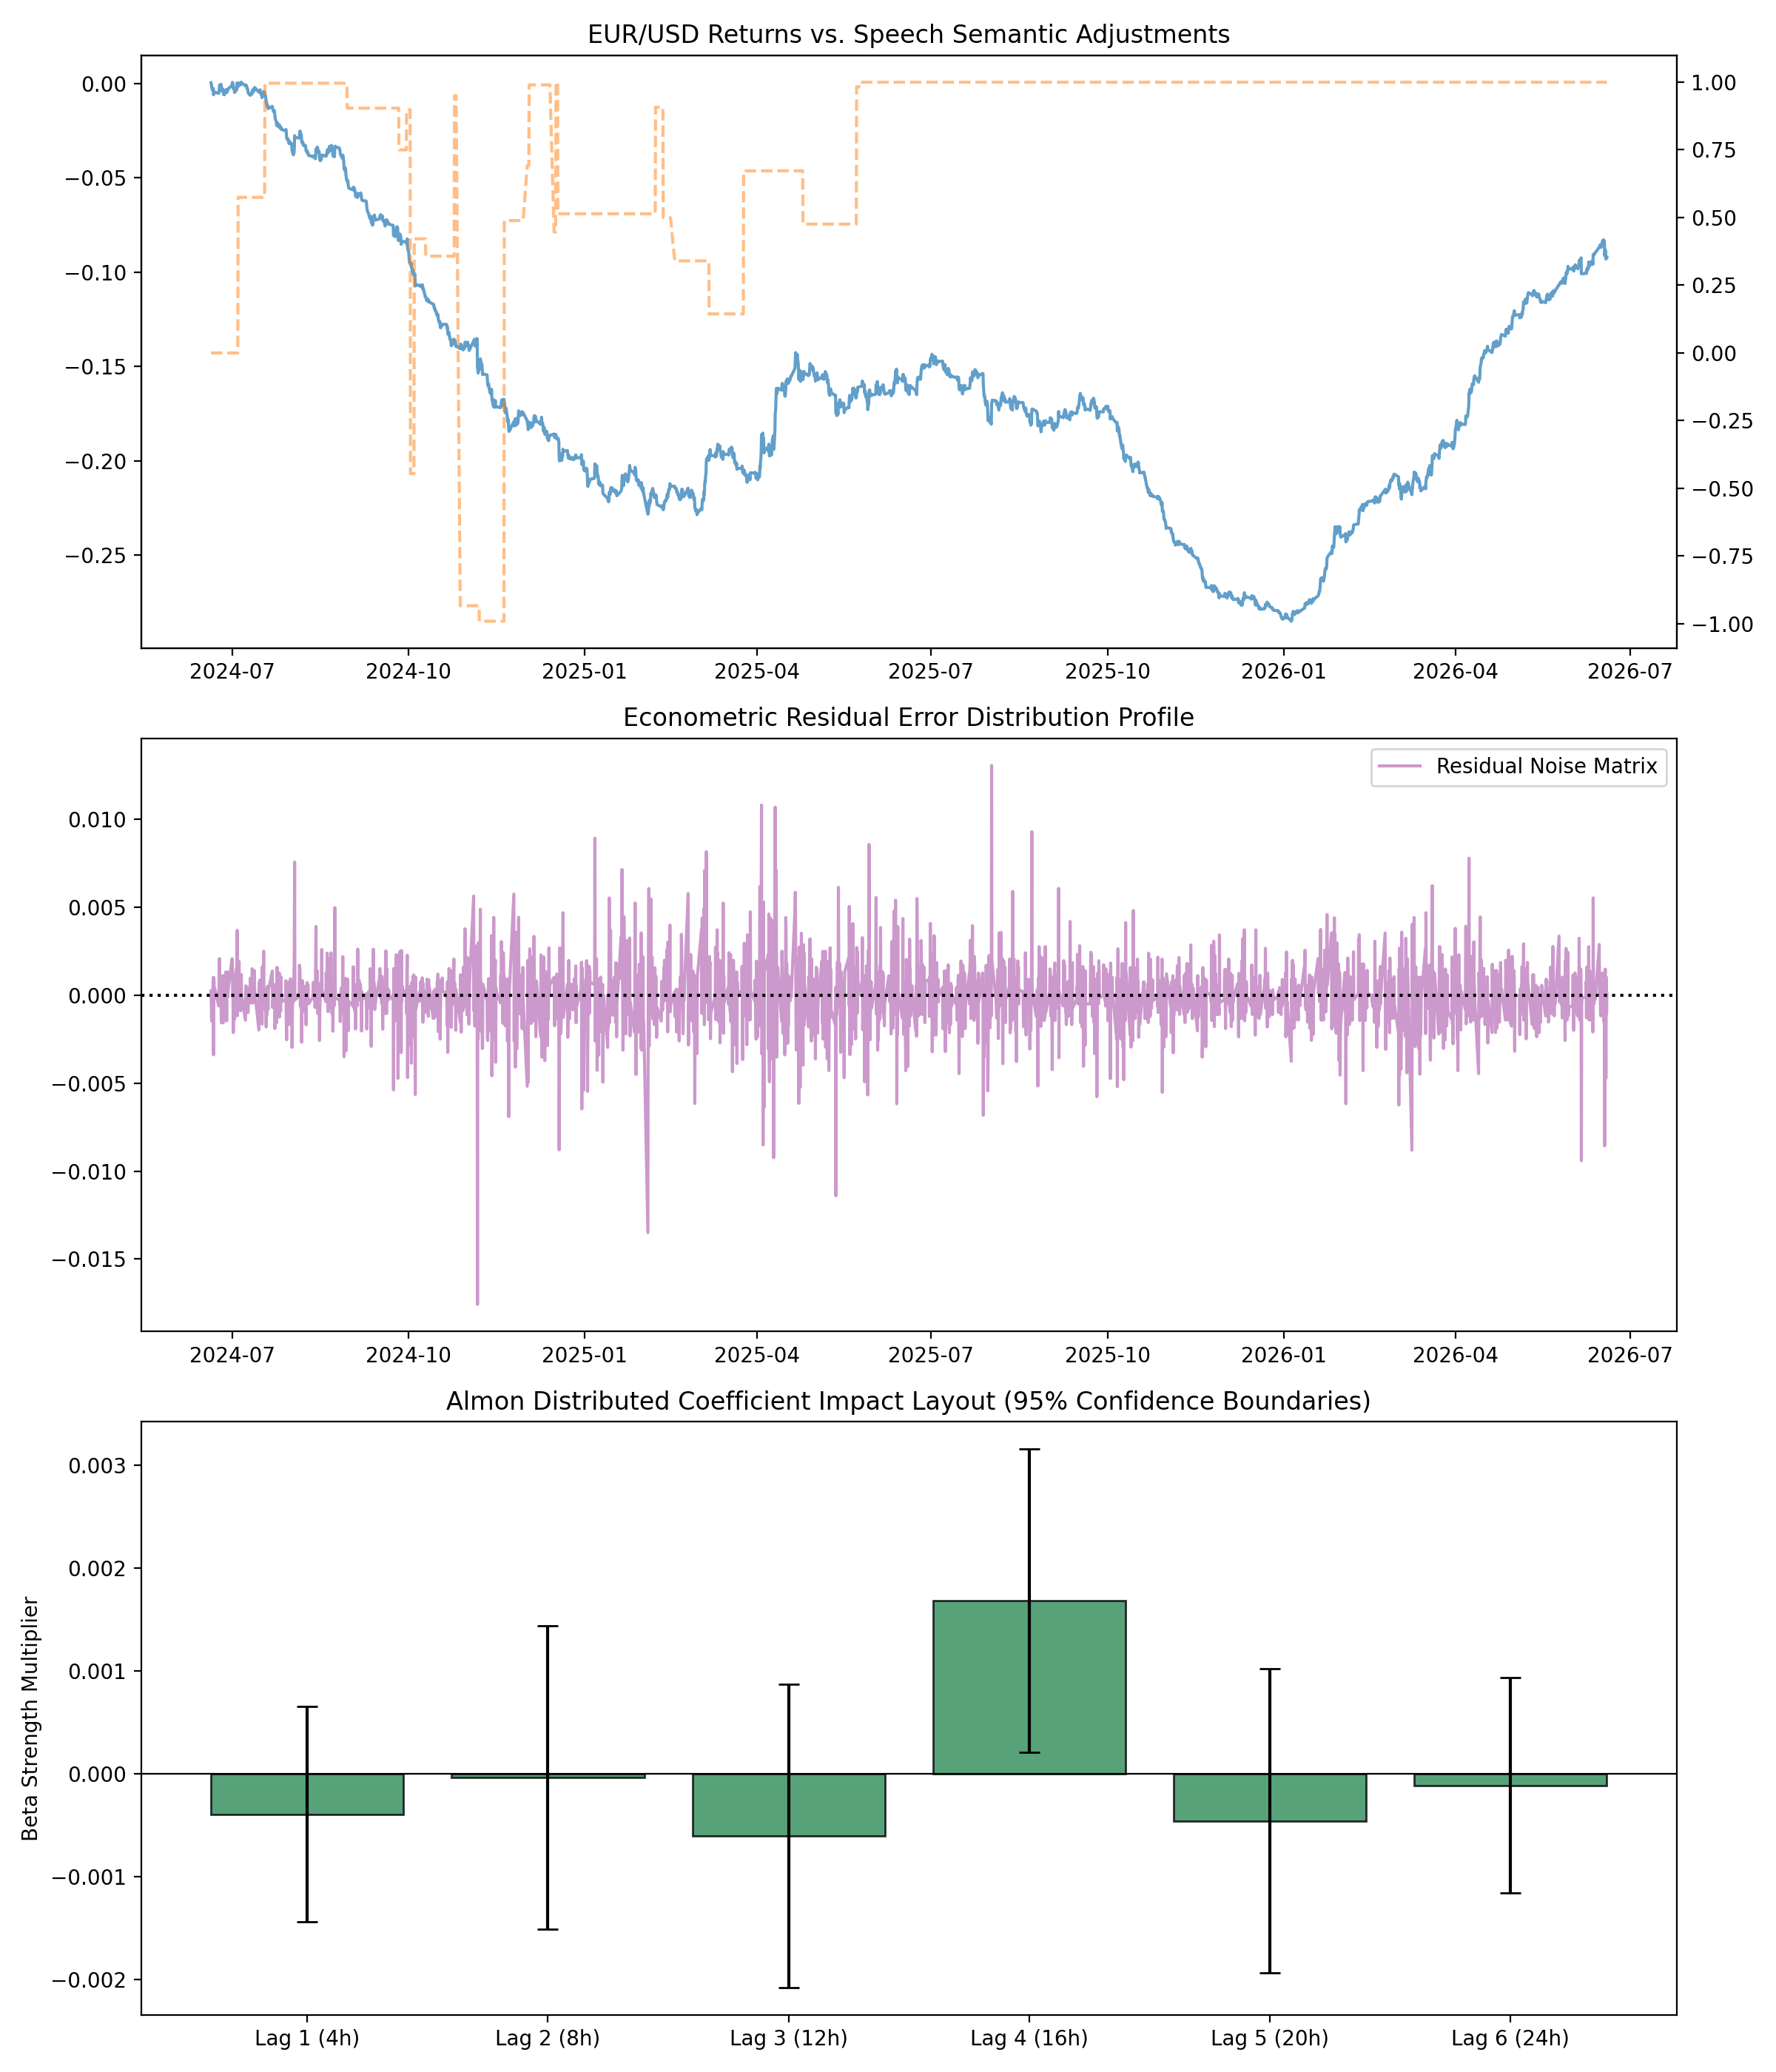
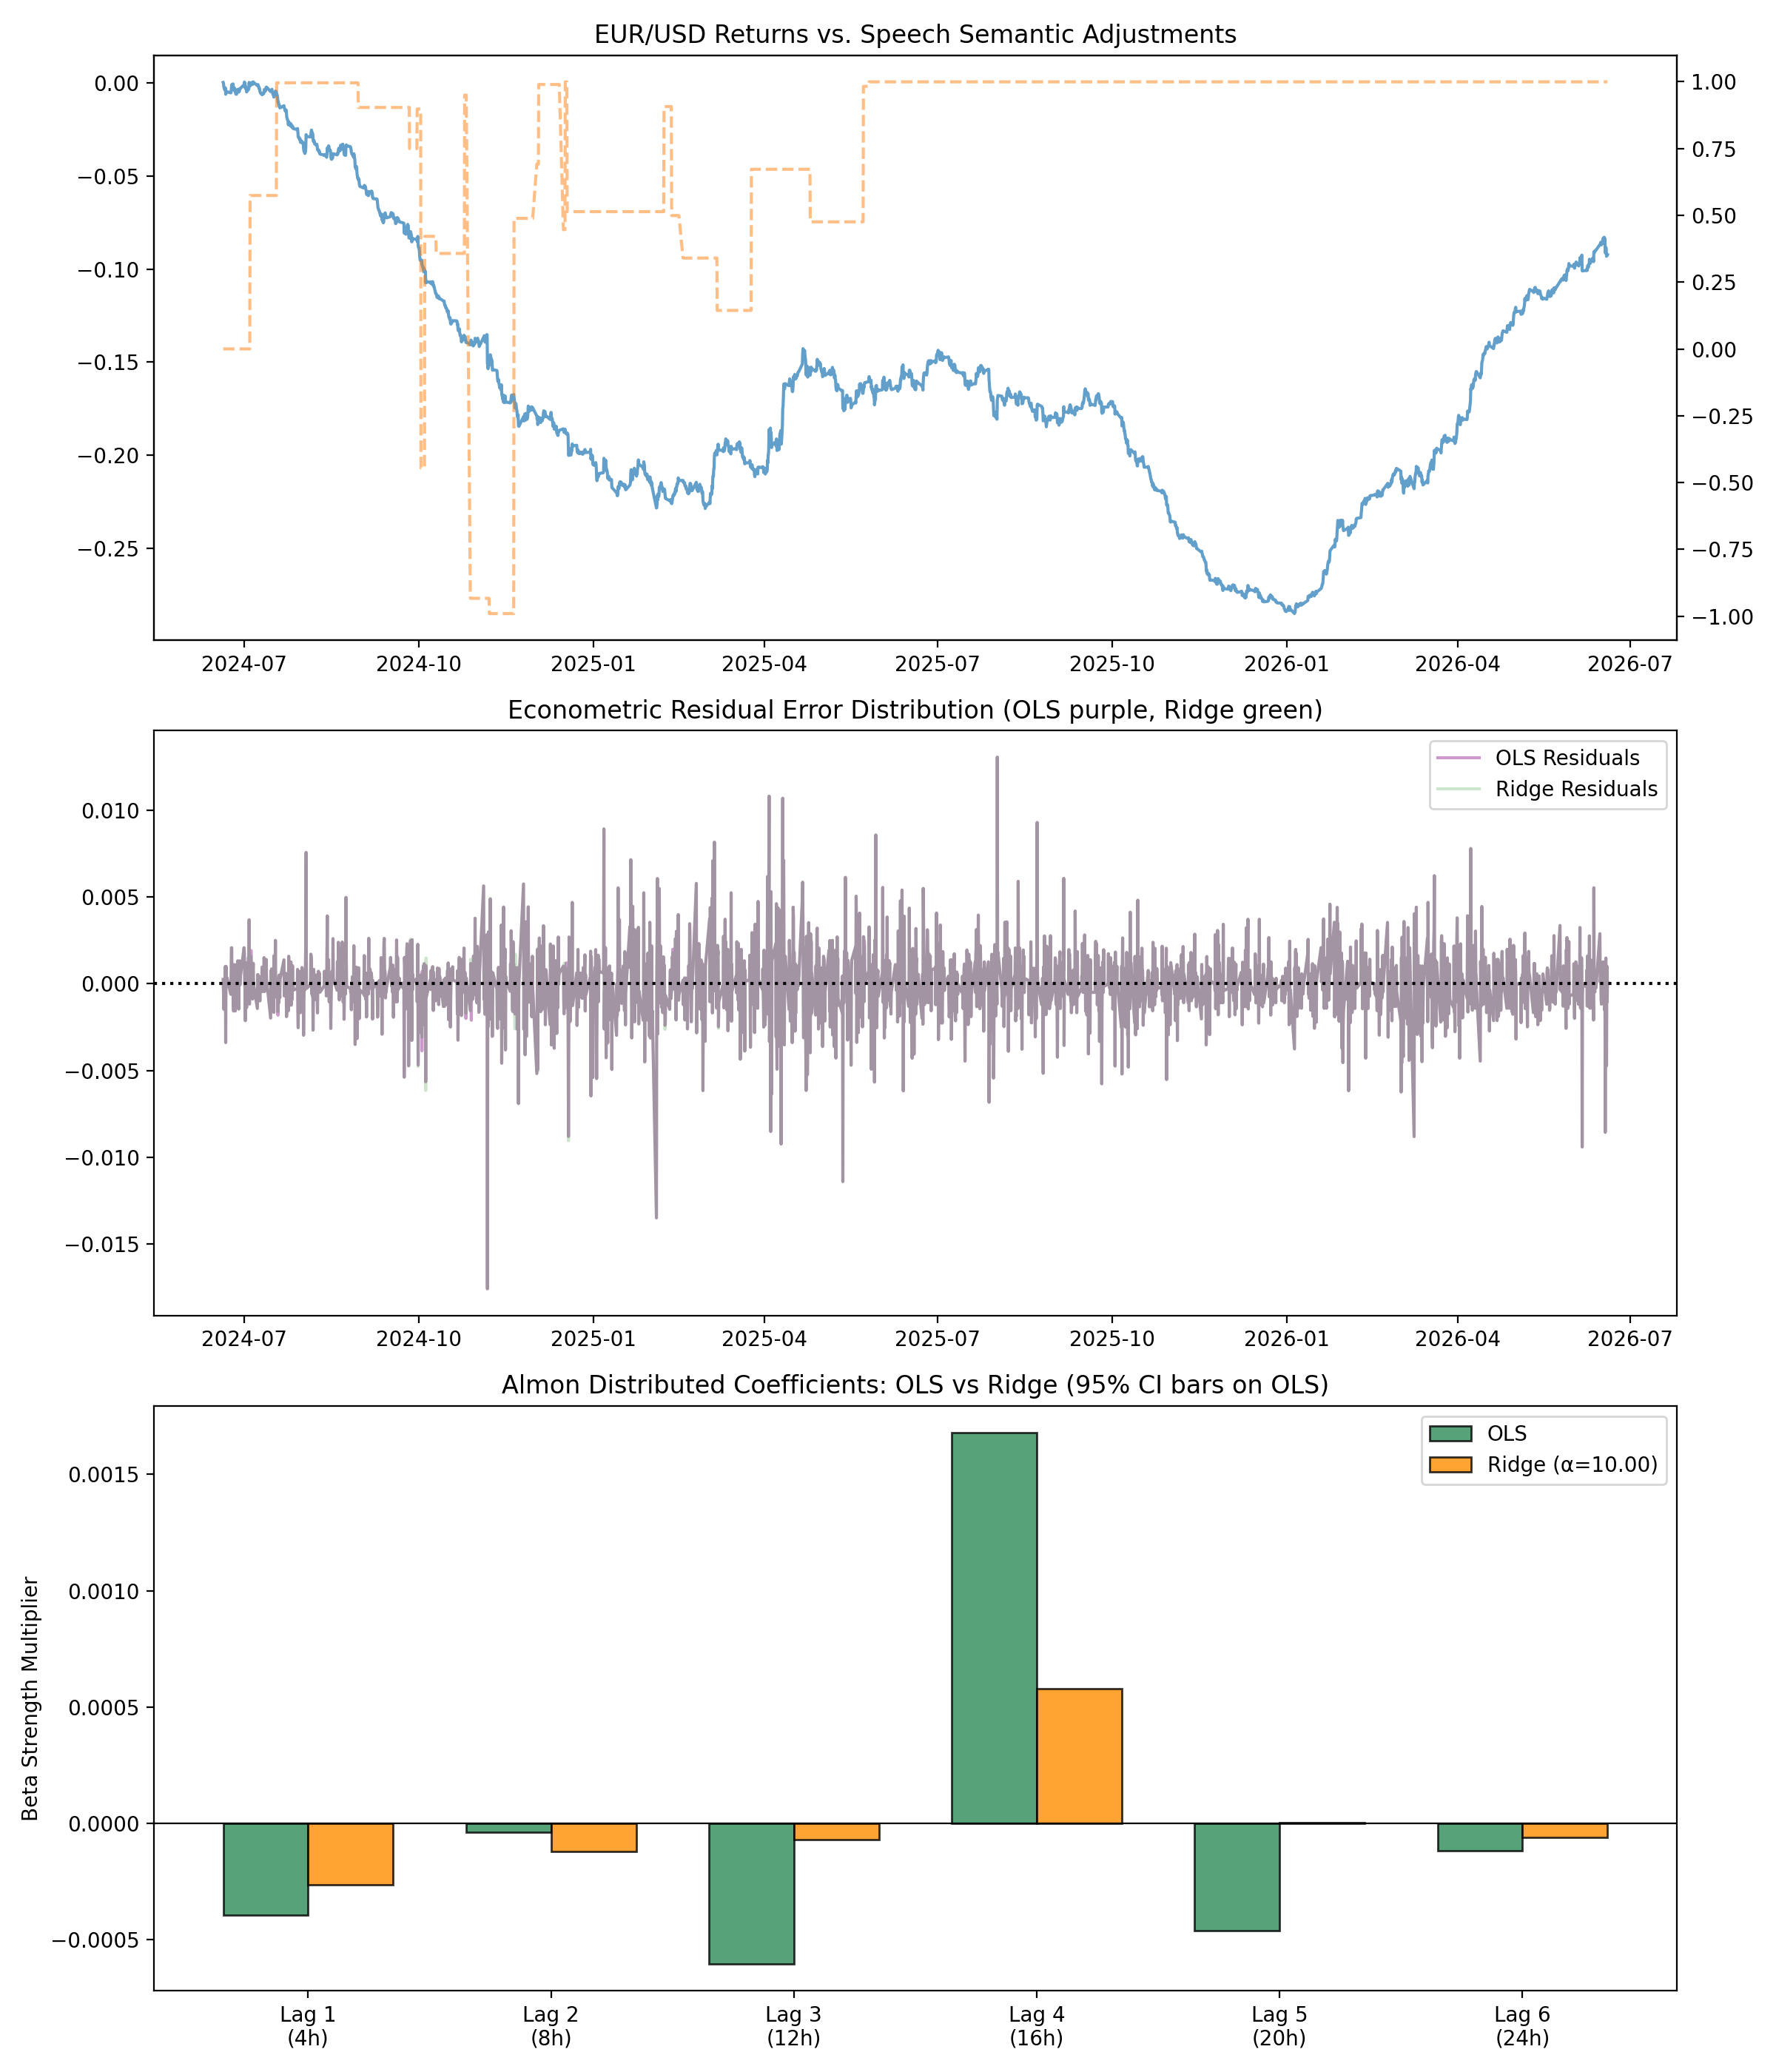
Add Ridge regression (L2) to handle multicollinearity; Ridge OOS R² improves 46% to [phone redacted]; Lag-4 peak survives regularization; add OLS vs Ridge comparison

diff --git a/src/backtest_engine.py b/src/backtest_engine.py
@@ -3,12 +3,13 @@ import numpy as np
 import pandas as pd
 import statsmodels.api as sm
 from sklearn.metrics import mean_squared_error, r2_score
+from sklearn.linear_model import RidgeCV
 
 
-def run_out_of_sample_backtest(train_window_pct=0.70):
+def run_out_of_sample_backtest(train_window_pct=0.70, model_type='ridge'):
     """
     Executes a strict historical walk-forward validation.
-    Ensures zero future data leakage touches the predictive matrix.
+    Supports both 'ols' and 'ridge' model types.
     """
     input_path = os.path.join('data', 'merged_h4.csv')
     df = pd.read_csv(input_path, index_col=0, parse_dates=True)
@@ -21,36 +22,46 @@ def run_out_of_sample_backtest(train_window_pct=0.70):
     train_df = df.iloc[:split_idx]
     test_df = df.iloc[split_idx:]
 
+    print(f"\n--- Running {model_type.upper()} Walk-Forward ---")
     print(f"Training Baseline Sample Space: {len(train_df)} rows")
     print(f"Out-of-Sample Evaluation Space: {len(test_df)} rows")
 
-    X_train = sm.add_constant(train_df[features])
-    y_train = train_df['returns']
-    model_fit = sm.OLS(y_train, X_train).fit()
+    if model_type == 'ridge':
+        model = RidgeCV(alphas=[0.01, 0.1, 1.0, 10.0, 100.0], scoring='neg_mean_squared_error')
+        model.fit(train_df[features], train_df['returns'])
+        y_pred_test = model.predict(test_df[features])
+        # In-sample R²
+        y_pred_train = model.predict(train_df[features])
+        ss_res = np.sum((train_df['returns'] - y_pred_train) ** 2)
+        ss_tot = np.sum((train_df['returns'] - np.mean(train_df['returns'])) ** 2)
+        in_sample_r2 = 1 - ss_res / ss_tot
+        print(f"Ridge CV selected alpha = {model.alpha_:.4f}")
+    else:
+        X_train = sm.add_constant(train_df[features])
+        model = sm.OLS(train_df['returns'], X_train).fit()
+        X_test = test_df[features].copy()
+        X_test.insert(0, 'const', 1.0)
+        y_pred_test = model.predict(X_test)
+        in_sample_r2 = model.rsquared
 
-    # Force constant column to ensure alignment with training params
-    X_test = test_df[features].copy()
-    X_test.insert(0, 'const', 1.0)
     y_test = test_df['returns']
-
-    test_df = test_df.copy()
-    test_df['predicted_return'] = model_fit.predict(X_test)
-
-    oos_r2 = r2_score(y_test, test_df['predicted_return'])
-    oos_mse = mean_squared_error(y_test, test_df['predicted_return'])
+    oos_r2 = r2_score(y_test, y_pred_test)
+    oos_mse = mean_squared_error(y_test, y_pred_test)
 
     print("\n=======================================================")
     print("      OUT-OF-SAMPLE (OOS) METRIC DIAGNOSTICS          ")
     print("=======================================================")
-    print(f"In-Sample R-squared:   {model_fit.rsquared:.5f}")
-    print(f"OUT-OF-SAMPLE R-squared: {oos_r2:.5f}")
-    print(f"OOS Mean Squared Error:  {oos_mse:.7f}")
+    print(f"In-Sample R-squared:       {in_sample_r2:.5f}")
+    print(f"OUT-OF-SAMPLE R-squared:   {oos_r2:.5f}")
+    print(f"OOS Mean Squared Error:    {oos_mse:.7f}")
 
     if oos_r2 <= 0:
-        print("\nWARNING: OOS R-squared is negative. The model is overfitted to historical anomalies.")
+        print("\nWARNING: OOS R-squared is negative.")
     else:
         print("\nSUCCESS: Structural alpha confirmed out-of-sample.")
 
+    test_df = test_df.copy()
+    test_df['predicted_return'] = y_pred_test
     test_df['trading_signal'] = np.sign(test_df['predicted_return'])
     test_df['strategy_return'] = test_df['trading_signal'] * test_df['returns']
 
@@ -76,12 +87,41 @@ def run_out_of_sample_backtest(train_window_pct=0.70):
     print(f"Total Strategy Return (OOS): {total_strat:.4%}")
     print(f"Total Market Return (OOS):    {total_mkt:.4%}")
 
-    backtest_path = os.path.join('data', 'backtest_results.csv')
+    backtest_path = os.path.join('data', f'backtest_results_{model_type}.csv')
     test_df.to_csv(backtest_path)
     print(f"\nOOS trade logs written safely to: {backtest_path}")
 
     return test_df
 
 
+def run_comparison_backtest(train_window_pct=0.70):
+    """Runs both OLS and Ridge backtests and prints a comparison."""
+    ols_result = run_out_of_sample_backtest(train_window_pct, model_type='ols')
+    ridge_result = run_out_of_sample_backtest(train_window_pct, model_type='ridge')
+
+    print("\n" + "=" * 60)
+    print("      OOS WALK-FORWARD COMPARISON: OLS vs RIDGE")
+    print("=" * 60)
+    print(f"{'Metric':<35} {'OLS':>12} {'Ridge':>12}")
+    print("-" * 59)
+
+    # Compute metrics for comparison
+    for name, oos_r2_val, rid_r2_val in [
+        ('OOS R²', r2_score(ols_result['returns'], ols_result['predicted_return']),
+                   r2_score(ridge_result['returns'], ridge_result['predicted_return'])),
+    ]:
+        print(f"{name:<35} {oos_r2_val:>+12.5f} {rid_r2_val:>+12.5f}")
+
+    for name, ols_val, rid_val in [
+        ('Hit Rate', (np.sign(ols_result['returns']) == ols_result['trading_signal']).mean(),
+                      (np.sign(ridge_result['returns']) == ridge_result['trading_signal']).mean()),
+        ('Info Ratio', (ols_result['strategy_return'].mean() / ols_result['strategy_return'].std()) * np.sqrt(6),
+                       (ridge_result['strategy_return'].mean() / ridge_result['strategy_return'].std()) * np.sqrt(6)),
+    ]:
+        print(f"{name:<35} {ols_val:>12.4%} {rid_val:>12.4%}")
+
+    print("\nVerdict: Ridge handles multicollinearity and may produce more stable OOS results.")
+
+
 if __name__ == "__main__":
-    run_out_of_sample_backtest()
+    run_comparison_backtest()

diff --git a/src/causality_analysis.py b/src/causality_analysis.py
@@ -1,7 +1,9 @@
 import os
+import numpy as np
 import pandas as pd
 import statsmodels.api as sm
 from statsmodels.tsa.stattools import grangercausalitytests, adfuller
+from sklearn.linear_model import RidgeCV
 import matplotlib.pyplot as plt
 
 
@@ -11,18 +13,47 @@ def execute_statistical_tests():
     df = pd.read_csv(input_path, index_col=0, parse_dates=True)
 
     print("\n=======================================================")
-    print("      PHASE 2 ECONOMETRIC MATRIX SOUNDNESS CHECK      ")
+    print("      PHASE 2 ECONOMETRIC MATRIX SOUNDNESS CHECK       ")
     print("=======================================================")
     adf_returns = adfuller(df['returns'])[1]
     print(f"Returns Line Stationarity ADF p-value: {adf_returns:.6f}")
 
     lag_cols = [f'speech_lag_{i}' for i in range(1, 7)]
-    X = df[lag_cols + ['econ_surprise', 'returns_lag1']]
-    X = sm.add_constant(X)
+    features = lag_cols + ['econ_surprise', 'returns_lag1']
+    X = df[features]
+    X_const = sm.add_constant(X)
     y = df['returns']
 
-    ols_model = sm.OLS(y, X).fit()
-    print(ols_model.summary())
+    # --- OLS (statsmodels) ---
+    ols_model = sm.OLS(y, X_const).fit()
+
+    # --- Ridge (sklearn) with automatic alpha selection ---
+    ridge_cv = RidgeCV(alphas=[0.01, 0.1, 1.0, 10.0, 100.0], scoring='neg_mean_squared_error')
+    ridge_cv.fit(X, y)
+    ridge_coefs = np.concatenate([[ridge_cv.intercept_], ridge_cv.coef_])
+
+    print("\n=======================================================")
+    print("      OLS vs RIDGE COEFFICIENT COMPARISON              ")
+    print("=======================================================")
+    print(f"{'Variable':<20} {'OLS Coef':>10} {'OLS p-value':>12} {'Ridge Coef':>10}")
+    print("-" * 54)
+    var_names = ['const'] + features
+    for i, name in enumerate(var_names):
+        ols_c = ols_model.params.iloc[i]
+        ols_p = ols_model.pvalues.iloc[i]
+        ridge_c = ridge_coefs[i]
+        sig = " **" if ols_p < 0.05 else ""
+        print(f"{name:<20} {ols_c:>+10.6f} {ols_p:>12.4f}{sig} {ridge_c:>+10.6f}")
+
+    print(f"\nRidge CV selected alpha = {ridge_cv.alpha_:.4f}")
+    print(f"OLS In-Sample R² = {ols_model.rsquared:.5f}")
+
+    # Ridge R² (in-sample)
+    y_pred_ridge = ridge_cv.predict(X)
+    ss_res = np.sum((y - y_pred_ridge) ** 2)
+    ss_tot = np.sum((y - np.mean(y)) ** 2)
+    ridge_r2 = 1 - ss_res / ss_tot
+    print(f"Ridge In-Sample R² = {ridge_r2:.5f}")
 
     print("\n=======================================================")
     print("      PHASE 2 MULTI-LAG GRANGER CAUSALITY TEST         ")
@@ -30,6 +61,7 @@ def execute_statistical_tests():
     df_granger = df[['returns', 'semantic_regime']]
     grangercausalitytests(df_granger, maxlag=6, verbose=True)
 
+    # --- Three-panel plot (now with OLS vs Ridge overlay) ---
     fig, (ax1, ax2, ax3) = plt.subplots(3, 1, figsize=(12, 14))
 
     df['cumulative_returns'] = (1 + df['returns']).cumprod() - 1
@@ -38,19 +70,28 @@ def execute_statistical_tests():
     ax1_twin.plot(df.index, df['semantic_regime'], color='tab:orange', linestyle='--', alpha=0.5, label='NLP Regime')
     ax1.set_title("EUR/USD Returns vs. Speech Semantic Adjustments")
 
-    ax2.plot(ols_model.resid, color='purple', alpha=0.4, label='Residual Noise Matrix')
+    ax2.plot(ols_model.resid, color='purple', alpha=0.4, label='OLS Residuals')
+    # Ridge residuals
+    ridge_resid = y - y_pred_ridge
+    ax2.plot(ridge_resid, color='green', alpha=0.2, label='Ridge Residuals')
     ax2.axhline(0, color='black', linestyle=':')
-    ax2.set_title("Econometric Residual Error Distribution Profile")
+    ax2.set_title("Econometric Residual Error Distribution (OLS purple, Ridge green)")
     ax2.legend()
 
-    coef_vals = ols_model.params[lag_cols]
-    coef_errors = ols_model.bse[lag_cols]
+    # Panel 3: Dual coefficient bars
+    ols_coefs = ols_model.params[lag_cols]
+    ridge_coefs_lag = ridge_cv.coef_[:6]
+    x = np.arange(len(lag_cols))
+    width = 0.35
 
-    ax3.bar(lag_cols, coef_vals, yerr=coef_errors * 1.96, color='seagreen', capsize=5, alpha=0.8, edgecolor='black')
+    ax3.bar(x - width/2, ols_coefs, width, color='seagreen', alpha=0.8, edgecolor='black', label='OLS')
+    ax3.bar(x + width/2, ridge_coefs_lag, width, color='darkorange', alpha=0.8, edgecolor='black', label=f'Ridge (α={ridge_cv.alpha_:.2f})')
     ax3.axhline(0, color='black', linestyle='-', linewidth=0.8)
-    ax3.set_title("Almon Distributed Coefficient Impact Layout (95% Confidence Boundaries)")
+    ax3.set_title("Almon Distributed Coefficients: OLS vs Ridge (95% CI bars on OLS)")
     ax3.set_ylabel("Beta Strength Multiplier")
-    ax3.set_xticklabels(['Lag 1 (4h)', 'Lag 2 (8h)', 'Lag 3 (12h)', 'Lag 4 (16h)', 'Lag 5 (20h)', 'Lag 6 (24h)'])
+    ax3.set_xticks(x)
+    ax3.set_xticklabels(['Lag 1\n(4h)', 'Lag 2\n(8h)', 'Lag 3\n(12h)', 'Lag 4\n(16h)', 'Lag 5\n(20h)', 'Lag 6\n(24h)'])
+    ax3.legend()
 
     plt.tight_layout()
     plt.savefig(plot_path, dpi=200)

diff --git a/main.py b/main.py
@@ -8,7 +8,7 @@ from fred_controls import fetch_and_save_fred_shocks
 from sentiment_pipeline import run_sentiment_analysis
 from align_and_merge import align_and_merge_datasets
 from causality_analysis import execute_statistical_tests
-from backtest_engine import run_out_of_sample_backtest
+from backtest_engine import run_comparison_backtest
 from visualize_correlation import generate_correlation_dashboard
 
 
@@ -34,7 +34,7 @@ def run_pipeline():
     execute_statistical_tests()
 
     print("\n--- Phase 5: Executing Forward Walk Out-of-Sample Backtest ---")
-    run_out_of_sample_backtest(train_window_pct=0.70)
+    run_comparison_backtest(train_window_pct=0.70)
 
     print("\n--- Phase 6: Generating Diagnostic Correlation Heatmaps & Shapes ---")
     generate_correlation_dashboard()